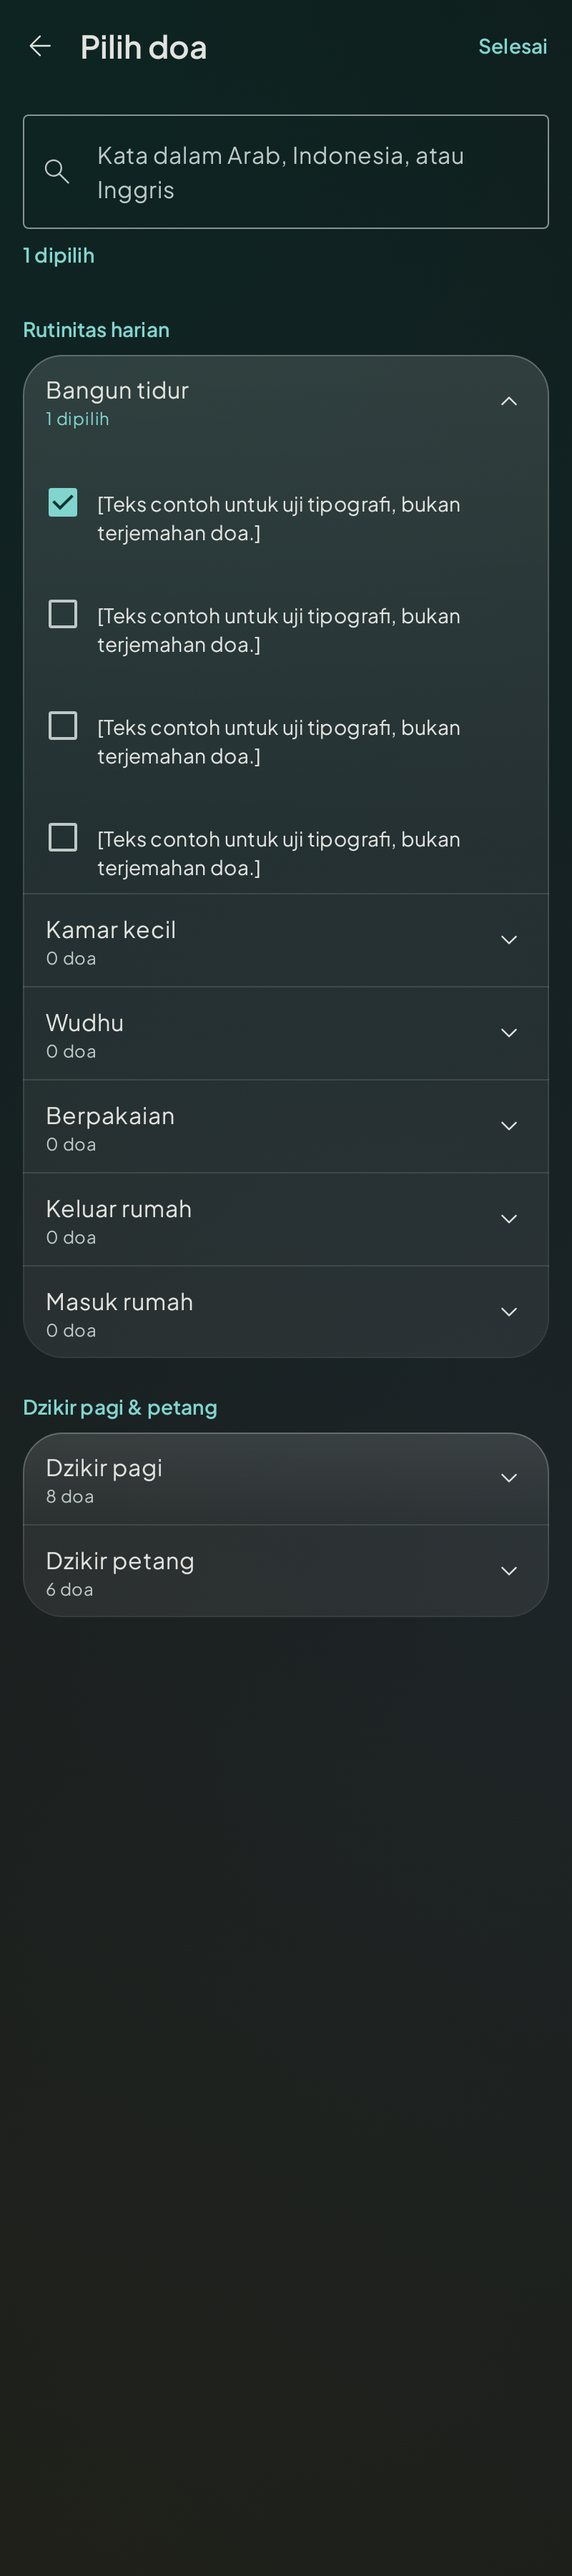
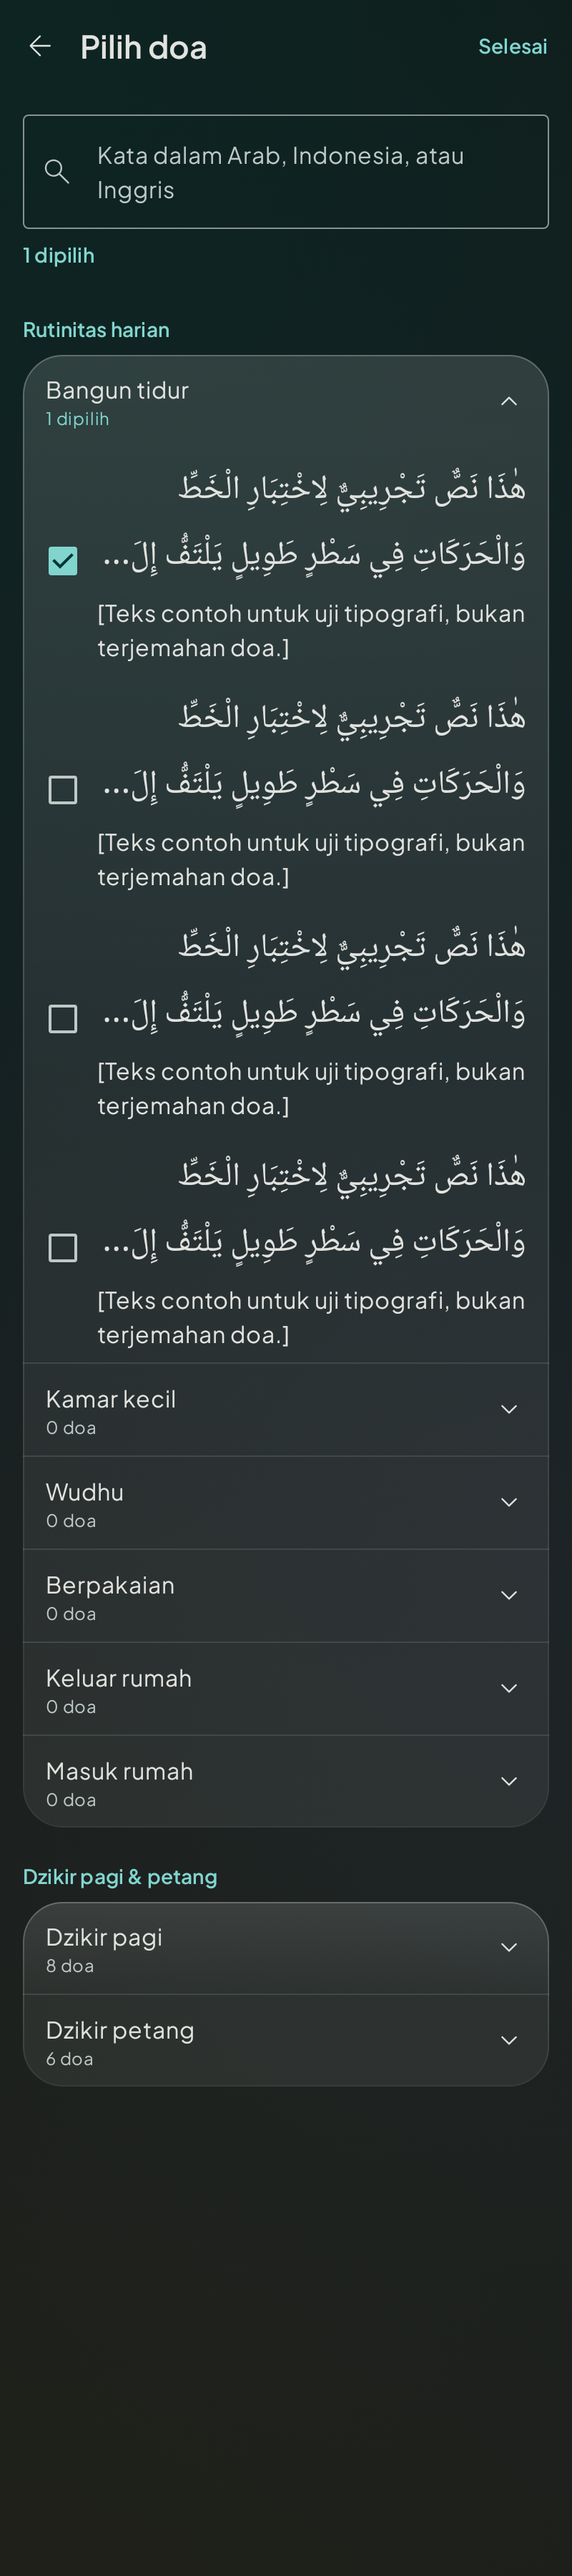
Routine search shows Arabic; save a dua to My hifz from Run mode
- Routine picker rows (search results and occasion lists) show the occasion,
  the start of the Arabic and the translation, plus transliteration when the
  reader setting is on and the content has it.
- Run mode menu: "Tambah ke hafalan" saves the current dua to My hifz to learn
  later. It is listed as "Belum dipelajari" and joins the review queue on its
  first rating; never-rated items are left out of the due count and queue.
  "Baca dari hafalan" only hides duas that have been rated.

diff --git a/app/src/main/java/id/haho/muslimdaily/feature/routines/RoutineEditScreen.kt b/app/src/main/java/id/haho/muslimdaily/feature/routines/RoutineEditScreen.kt
@@ -60,6 +60,7 @@ import androidx.hilt.lifecycle.viewmodel.compose.hiltViewModel
 import androidx.lifecycle.compose.collectAsStateWithLifecycle
 import id.haho.muslimdaily.R
 import id.haho.muslimdaily.core.designsystem.component.AppScreen
+import id.haho.muslimdaily.core.designsystem.component.ArabicText
 import id.haho.muslimdaily.core.designsystem.component.InfoNote
 import id.haho.muslimdaily.core.designsystem.component.SectionHeader
 import id.haho.muslimdaily.core.designsystem.glass.Glass
@@ -70,6 +71,8 @@ import id.haho.muslimdaily.core.designsystem.glass.GlassTonalButton
 import id.haho.muslimdaily.core.designsystem.glass.chevronRotation
 import id.haho.muslimdaily.core.designsystem.theme.AppTheme
 import id.haho.muslimdaily.core.model.Dua
+import id.haho.muslimdaily.feature.duas.components.DuaTranslations
+import id.haho.muslimdaily.feature.duas.components.ReadingPrefs
 
 class RoutineEditActions(
     val onRename: (String) -> Unit = {},
@@ -326,7 +329,7 @@ private fun PickerContent(state: RoutineEditState, actions: RoutineEditActions) 
                 item(key = "none") { InfoNote(stringResource(R.string.search_empty_title), Modifier.padding(gutter)) }
             }
             items(results, key = { "r:" + it.id }) { dua ->
-                PickRow(dua, labels[dua.event].orEmpty(), dua.id in selected) { actions.onToggle(dua) }
+                PickRow(dua, labels[dua.event].orEmpty(), state.prefs, dua.id in selected) { actions.onToggle(dua) }
             }
         } else {
             state.categories.forEach { category ->
@@ -358,7 +361,7 @@ private fun PickerContent(state: RoutineEditState, actions: RoutineEditActions) 
                                 }
                                 if (open) {
                                     state.eventDuas[event.id].orEmpty().forEach { dua ->
-                                        PickRow(dua, "", dua.id in selected) { actions.onToggle(dua) }
+                                        PickRow(dua, "", state.prefs, dua.id in selected) { actions.onToggle(dua) }
                                     }
                                 }
                             }
@@ -371,7 +374,7 @@ private fun PickerContent(state: RoutineEditState, actions: RoutineEditActions) 
 }
 
 @Composable
-private fun PickRow(dua: Dua, eventLabel: String, checked: Boolean, onToggle: () -> Unit) {
+private fun PickRow(dua: Dua, eventLabel: String, prefs: ReadingPrefs, checked: Boolean, onToggle: () -> Unit) {
     Row(
         Modifier
             .fillMaxWidth()
@@ -382,6 +385,21 @@ private fun PickRow(dua: Dua, eventLabel: String, checked: Boolean, onToggle: ()
     ) {
         Checkbox(checked = checked, onCheckedChange = null)
         Spacer(Modifier.width(AppTheme.spacing.md))
-        DuaSummary(null, dua, eventLabel, Modifier.weight(1f))
+        PickSummary(dua, eventLabel, prefs, Modifier.weight(1f))
     }
 }
+
+/** Occasion, the start of the Arabic and the translation (and transliteration, if on): enough to choose by. */
+@Composable
+private fun PickSummary(dua: Dua, eventLabel: String, prefs: ReadingPrefs, modifier: Modifier = Modifier) {
+    Column(modifier, verticalArrangement = Arrangement.spacedBy(AppTheme.spacing.xs)) {
+        if (eventLabel.isNotBlank()) {
+            Text(eventLabel, style = MaterialTheme.typography.labelLarge, color = MaterialTheme.colorScheme.primary)
+        }
+        ArabicText(dua.arabic, style = AppTheme.arabic.body(dua.isQuran), maxLines = PICK_ARABIC_LINES)
+        DuaTranslations(dua, prefs, maxLines = PICK_TRANSLATION_LINES)
+    }
+}
+
+private const val PICK_ARABIC_LINES = 2
+private const val PICK_TRANSLATION_LINES = 2

diff --git a/app/src/main/java/id/haho/muslimdaily/feature/memorize/MemorizeHomeScreen.kt b/app/src/main/java/id/haho/muslimdaily/feature/memorize/MemorizeHomeScreen.kt
@@ -77,7 +77,7 @@ class MemorizeHomeViewModel @Inject constructor(
             today = today,
             entries = items.mapNotNull { item ->
                 val dua = byId[item.duaId] ?: return@mapNotNull null
-                HifzEntry(item, dua, labels[dua.event].orEmpty(), Leitner.isDue(item.state, today))
+                HifzEntry(item, dua, labels[dua.event].orEmpty(), !item.notStarted && Leitner.isDue(item.state, today))
             },
         )
     }.stateIn(viewModelScope, SharingStarted.WhileSubscribed(5_000), null)
@@ -184,6 +184,12 @@ private fun HifzRow(entry: HifzEntry, onClick: () -> Unit) {
                         content = MaterialTheme.colorScheme.onPrimary,
                         icon = R.drawable.ic_event_repeat,
                     )
+                    entry.item.notStarted -> Badge(
+                        stringResource(R.string.memorize_not_started),
+                        container = MaterialTheme.colorScheme.secondaryContainer,
+                        content = MaterialTheme.colorScheme.onSecondaryContainer,
+                        icon = R.drawable.ic_record_voice_over,
+                    )
                     entry.item.memorized -> Badge(
                         stringResource(R.string.memorize_memorized),
                         container = AppTheme.colors.completeFill,
@@ -192,12 +198,14 @@ private fun HifzRow(entry: HifzEntry, onClick: () -> Unit) {
                     )
                     else -> Unit
                 }
-                Badge(
-                    stringResource(R.string.memorize_box_n, entry.item.state.box),
-                    container = MaterialTheme.colorScheme.surfaceContainerHighest,
-                    content = MaterialTheme.colorScheme.onSurfaceVariant,
-                )
-                if (!entry.due) {
+                if (!entry.item.notStarted) {
+                    Badge(
+                        stringResource(R.string.memorize_box_n, entry.item.state.box),
+                        container = MaterialTheme.colorScheme.surfaceContainerHighest,
+                        content = MaterialTheme.colorScheme.onSurfaceVariant,
+                    )
+                }
+                if (!entry.due && !entry.item.notStarted) {
                     Text(
                         stringResource(R.string.memorize_next_on, formatLongDate(entry.item.state.due)),
                         style = MaterialTheme.typography.bodySmall,

diff --git a/app/src/main/java/id/haho/muslimdaily/feature/run/RunViewModel.kt b/app/src/main/java/id/haho/muslimdaily/feature/run/RunViewModel.kt
@@ -45,6 +45,8 @@ data class RunUiState(
     val haptics: Boolean,
     /** Duas in "My hifz"; with [fromMemory] their Arabic stays hidden until the page is revealed. */
     val hifz: Set<String> = emptySet(),
+    /** Every dua in "My hifz", including those saved to learn later (not hidden: not learnt yet). */
+    val saved: Set<String> = emptySet(),
     val fromMemory: Boolean = false,
     /** Pages whose text was shown this session; not stored. */
     val revealed: Set<Int> = emptySet(),
@@ -122,6 +124,7 @@ class RunViewModel @Inject constructor(
                 if (duas.size == session.items.size) session to duas else null
             }
             val (session, duas) = resumed ?: newSession()
+            val hifz = reviews.items().first()
             _state.value = RunUiState(
                 eventLabel = label,
                 duas = duas,
@@ -132,7 +135,8 @@ class RunViewModel @Inject constructor(
                 prefs = prefs,
                 autoAdvance = s.autoAdvance,
                 haptics = s.haptics,
-                hifz = reviews.items().first().map { it.duaId }.toSet(),
+                hifz = hifz.filterNot { it.notStarted }.map { it.duaId }.toSet(),
+                saved = hifz.map { it.duaId }.toSet(),
                 fromMemory = s.runFromMemory,
             )
             launch {
@@ -204,6 +208,15 @@ class RunViewModel @Inject constructor(
     /** Shows the hidden text of a dua recited from memory. Changes no count and no review. */
     fun reveal(page: Int) {
         _state.update { it?.copy(revealed = it.revealed + page) }
+    }
+
+    /** Saves the dua on [page] to "My hifz" to learn later. Changes no count. */
+    fun addToHifz(page: Int) {
+        val id = _state.value?.duas?.getOrNull(page)?.id ?: return
+        viewModelScope.launch {
+            reviews.add(id, today)
+            _state.update { it?.copy(saved = it.saved + id) }
+        }
     }
 
     fun setFromMemory(enabled: Boolean) {

diff --git a/app/src/main/java/id/haho/muslimdaily/feature/run/RunScreen.kt b/app/src/main/java/id/haho/muslimdaily/feature/run/RunScreen.kt
@@ -75,6 +75,7 @@ data class RunActions(
     val onAutoAdvance: (Boolean) -> Unit = {},
     val onFromMemory: (Boolean) -> Unit = {},
     val onReveal: (Int) -> Unit = {},
+    val onAddToHifz: (Int) -> Unit = {},
     val onClose: () -> Unit = {},
 )
 
@@ -113,6 +114,7 @@ fun RunRoute(onClose: () -> Unit, viewModel: RunViewModel = hiltViewModel()) {
                 onAutoAdvance = viewModel::setAutoAdvance,
                 onFromMemory = viewModel::setFromMemory,
                 onReveal = viewModel::reveal,
+                onAddToHifz = viewModel::addToHifz,
                 onClose = onClose,
             ),
         )
@@ -190,6 +192,16 @@ private fun RunTopBar(state: RunUiState, pager: PagerState, actions: RunActions)
                             text = { Text(stringResource(R.string.run_from_memory)) },
                             trailingIcon = { Switch(checked = state.fromMemory, onCheckedChange = null) },
                             onClick = { actions.onFromMemory(!state.fromMemory) },
+                        )
+                    }
+                    state.duas.getOrNull(pager.currentPage)?.let { dua ->
+                        // Stays open after adding, so the confirmation is seen (and read by TalkBack).
+                        val saved = dua.id in state.saved
+                        DropdownMenuItem(
+                            text = { Text(stringResource(if (saved) R.string.run_in_hifz else R.string.run_add_to_hifz)) },
+                            leadingIcon = { Icon(painterResource(if (saved) R.drawable.ic_check else R.drawable.ic_record_voice_over), null) },
+                            enabled = !saved,
+                            onClick = { actions.onAddToHifz(pager.currentPage) },
                         )
                     }
                     DropdownMenuItem(

diff --git a/app/src/test/java/id/haho/muslimdaily/data/review/ReviewRepositoryTest.kt b/app/src/test/java/id/haho/muslimdaily/data/review/ReviewRepositoryTest.kt
@@ -1,0 +1,48 @@
+package id.haho.muslimdaily.data.review
+
+import android.content.Context
+import androidx.room.Room
+import androidx.test.core.app.ApplicationProvider
+import androidx.test.ext.junit.runners.AndroidJUnit4
+import id.haho.muslimdaily.data.db.UserDatabase
+import id.haho.muslimdaily.domain.memorize.Rating
+import kotlinx.coroutines.flow.first
+import kotlinx.coroutines.test.runTest
+import org.junit.After
+import org.junit.Test
+import org.junit.runner.RunWith
+import java.time.LocalDate
+import kotlin.test.assertEquals
+import kotlin.test.assertTrue
+
+@RunWith(AndroidJUnit4::class)
+class ReviewRepositoryTest {
+    private val context = ApplicationProvider.getApplicationContext<Context>()
+    private val db = Room.inMemoryDatabaseBuilder(context, UserDatabase::class.java).allowMainThreadQueries().build()
+    private val repo = ReviewRepository(db)
+    private val today = LocalDate.of(2026, 10, 27)
+
+    @After fun close() = db.close()
+
+    @Test
+    fun `a dua saved to learn later is listed but not due until its first rating`() = runTest {
+        repo.add("wake_01", today)
+        val item = repo.items().first().single()
+        assertTrue(item.notStarted)
+        assertEquals(0, repo.dueCountOnce(today))
+        assertEquals(emptyList(), repo.due(today))
+
+        repo.rate("wake_01", Rating.HARD, today)
+        assertTrue(!repo.items().first().single().notStarted)
+        assertEquals(1, repo.dueCountOnce(today.plusDays(1)))
+    }
+
+    @Test
+    fun `saving again leaves a dua being reviewed as it is`() = runTest {
+        repo.rate("wake_01", Rating.EASY, today)
+        repo.add("wake_01", today.plusDays(1))
+        val item = repo.items().first().single()
+        assertEquals(2, item.state.box)
+        assertEquals(today, item.lastReviewed)
+    }
+}

diff --git a/app/src/main/java/id/haho/muslimdaily/feature/routines/RoutineEditViewModel.kt b/app/src/main/java/id/haho/muslimdaily/feature/routines/RoutineEditViewModel.kt
@@ -10,7 +10,9 @@ import id.haho.muslimdaily.core.model.DuaCategory
 import id.haho.muslimdaily.data.content.ContentRepository
 import id.haho.muslimdaily.data.myset.MySetRepository
 import id.haho.muslimdaily.data.routine.RoutineRepository
+import id.haho.muslimdaily.data.settings.SettingsRepository
 import id.haho.muslimdaily.domain.myset.ActiveSet
+import id.haho.muslimdaily.feature.duas.components.ReadingPrefs
 import id.haho.muslimdaily.navigation.RoutineEditRoute
 import kotlinx.coroutines.Job
 import kotlinx.coroutines.delay
@@ -33,6 +35,7 @@ data class RoutineEditState(
     val eventDuas: Map<String, List<Dua>> = emptyMap(),
     val query: String = "",
     val results: List<Dua>? = null,
+    val prefs: ReadingPrefs = ReadingPrefs(),
     val saved: Boolean = false,
 ) {
     val selectedIds: Set<String> get() = items.mapTo(HashSet()) { it.id }
@@ -64,6 +67,7 @@ class RoutineEditViewModel @Inject constructor(
     private val routines: RoutineRepository,
     private val content: ContentRepository,
     private val mySets: MySetRepository,
+    private val settings: SettingsRepository,
 ) : ViewModel() {
     private val route = savedState.toRoute<RoutineEditRoute>()
     private val _state = MutableStateFlow<RoutineEditState?>(null)
@@ -85,6 +89,11 @@ class RoutineEditViewModel @Inject constructor(
                 else -> "" to emptyList()
             }
             _state.value = RoutineEditState(isNew = existing == null, name = name, items = items, categories = categories)
+        }
+        viewModelScope.launch {
+            settings.settings.collect { s ->
+                _state.update { it?.copy(prefs = ReadingPrefs(s.translationMode, s.showTransliteration)) }
+            }
         }
     }
 

diff --git a/app/src/main/java/id/haho/muslimdaily/data/review/ReviewRepository.kt b/app/src/main/java/id/haho/muslimdaily/data/review/ReviewRepository.kt
@@ -13,6 +13,9 @@ import javax.inject.Singleton
 
 data class ReviewItem(val duaId: String, val state: LeitnerState, val lastReviewed: LocalDate?) {
     val memorized: Boolean get() = Leitner.isMemorized(state)
+
+    /** Saved to learn later (e.g. from Run mode) and never rated: not yet in the review queue. */
+    val notStarted: Boolean get() = lastReviewed == null
 }
 
 /** Leitner review boxes for memorised duas. Private, local, and free of streaks. */
@@ -43,6 +46,15 @@ class ReviewRepository @Inject constructor(private val db: UserDatabase) {
             ),
         )
         return next
+    }
+
+    /**
+     * Saves a dua to learn later. It joins the review queue on its first rating; a dua already
+     * saved or being reviewed is left as it is.
+     */
+    suspend fun add(duaId: String, today: LocalDate) {
+        if (dao.item(duaId) != null) return
+        dao.upsert(ReviewItemEntity(duaId, box = 1, dueEpochDay = today.toEpochDay(), lastReviewedEpochDay = null, addedEpochDay = today.toEpochDay()))
     }
 
     suspend fun remove(duaId: String) = dao.delete(duaId)

diff --git a/app/src/main/java/id/haho/muslimdaily/data/db/UserDatabase.kt b/app/src/main/java/id/haho/muslimdaily/data/db/UserDatabase.kt
@@ -237,13 +237,13 @@ interface ReviewDao {
     @Query("SELECT * FROM review_items ORDER BY dueEpochDay, duaId")
     fun observeAll(): Flow<List<ReviewItemEntity>>
 
-    @Query("SELECT COUNT(*) FROM review_items WHERE dueEpochDay <= :today")
+    @Query("SELECT COUNT(*) FROM review_items WHERE lastReviewedEpochDay IS NOT NULL AND dueEpochDay <= :today")
     fun observeDueCount(today: Long): Flow<Int>
 
-    @Query("SELECT COUNT(*) FROM review_items WHERE dueEpochDay <= :today")
+    @Query("SELECT COUNT(*) FROM review_items WHERE lastReviewedEpochDay IS NOT NULL AND dueEpochDay <= :today")
     suspend fun dueCount(today: Long): Int
 
-    @Query("SELECT * FROM review_items WHERE dueEpochDay <= :today ORDER BY dueEpochDay, duaId")
+    @Query("SELECT * FROM review_items WHERE lastReviewedEpochDay IS NOT NULL AND dueEpochDay <= :today ORDER BY dueEpochDay, duaId")
     suspend fun due(today: Long): List<ReviewItemEntity>
 
     @Query("SELECT * FROM review_items WHERE duaId = :duaId")

diff --git a/app/src/test/java/id/haho/muslimdaily/screenshots/RoutineScreenshotTest.kt b/app/src/test/java/id/haho/muslimdaily/screenshots/RoutineScreenshotTest.kt
@@ -67,6 +67,23 @@ class RoutineScreenshotTest {
         )
     }
 
+    @Test
+    fun pickerSearch() = captureVariants("124-routine-picker-search") {
+        RoutineEditScreen(
+            RoutineEditState(
+                isNew = true,
+                name = "",
+                items = DuaPreviewData.duas.take(1),
+                picking = true,
+                categories = categories,
+                query = "tidur",
+                results = DuaPreviewData.duas,
+            ),
+            onBack = {},
+            actions = RoutineEditActions(),
+        )
+    }
+
     /** The docked bars, as they sit on the bottom navigation. */
     @Test
     @Config(qualifiers = "id-w400dp-h300dp-xhdpi")

diff --git a/app/src/test/java/id/haho/muslimdaily/screenshots/MemorizeScreenshotTest.kt b/app/src/test/java/id/haho/muslimdaily/screenshots/MemorizeScreenshotTest.kt
@@ -57,6 +57,7 @@ class MemorizeScreenshotTest {
                     HifzEntry(ReviewItem("a", LeitnerState(2, today), today.minusDays(3)), DuaPreviewData.dua("a", 1), "Bangun tidur", due = true),
                     HifzEntry(ReviewItem("b", LeitnerState(5, today.plusDays(21)), today.minusDays(9)), DuaPreviewData.dua("b", 2), "Dzikir pagi", due = false),
                     HifzEntry(ReviewItem("c", LeitnerState(3, today.plusDays(4)), today.minusDays(3)), DuaPreviewData.dua("c", 3), "Sebelum tidur", due = false),
+                    HifzEntry(ReviewItem("d", LeitnerState(1, today), null), DuaPreviewData.dua("d", 1), "Masuk masjid", due = false),
                 ),
             ),
         ) { _, _ -> }
